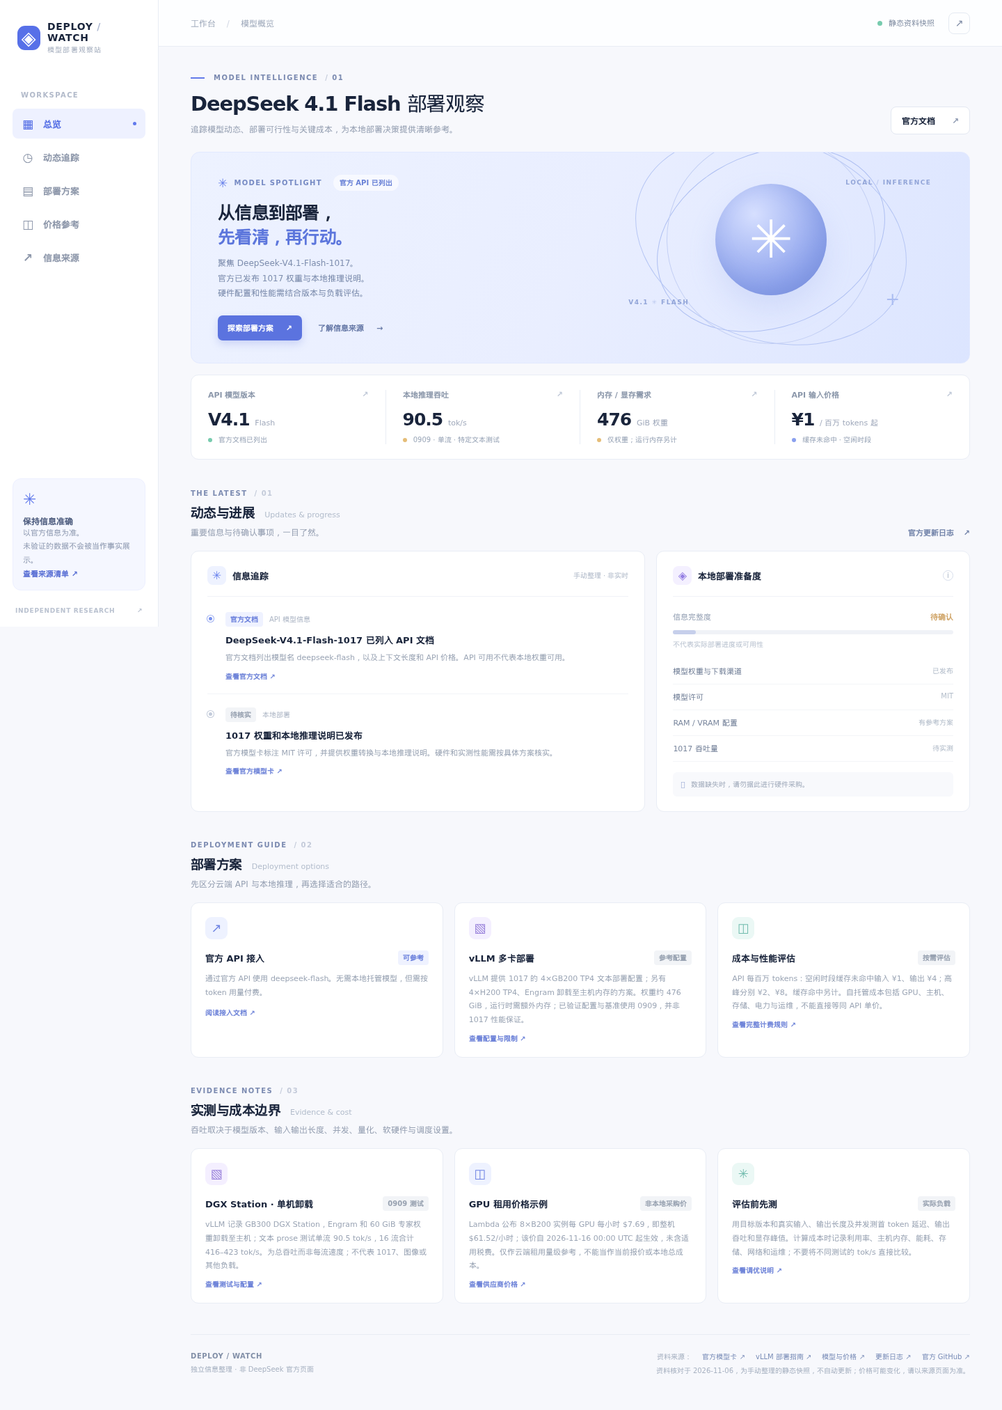
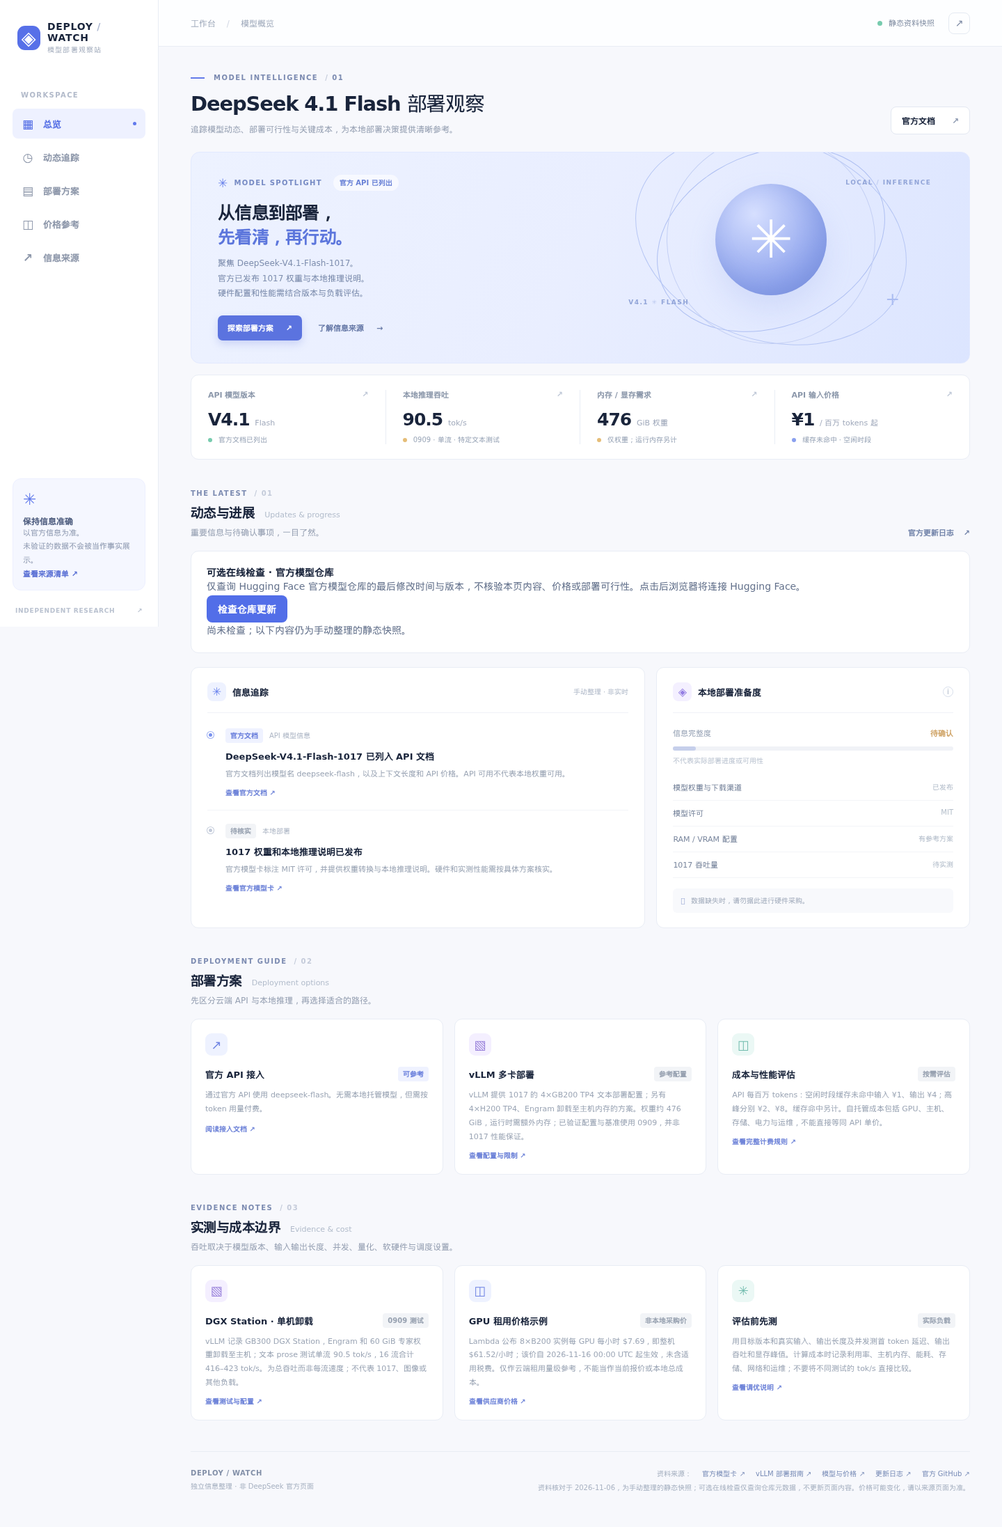
Add optional model repository update check

diff --git a/style.css b/style.css
@@ -1,3 +1,4 @@
 :root{--ink:#19243b;--muted:#8993a6;--blue:#526ee8;--line:#e9edf5;--bg:#f7f8fc}*{box-sizing:border-box}html{scroll-behavior:smooth}body{margin:0;background:var(--bg);color:var(--ink);font-family:Inter,-apple-system,BlinkMacSystemFont,"Segoe UI","Microsoft YaHei",sans-serif;font-size:14px}a{color:inherit;text-decoration:none}.sidebar{position:fixed;inset:0 auto 0 0;width:228px;background:#fff;border-right:1px solid #e9edf4;padding:30px 18px 18px;display:flex;flex-direction:column;z-index:2}.brand{display:flex;align-items:center;gap:10px;font-size:14px;font-weight:850;letter-spacing:.05em;padding:0 7px}.brand-mark{width:35px;height:35px;border-radius:11px;background:#5770e8;color:white;display:grid;place-items:center;font-size:27px}.brand-light{color:#aeb8d1}.brand small{display:block;font-size:10px;color:#a6afbf;letter-spacing:.12em;margin-top:3px;font-weight:500}.side-label{font-size:10px;letter-spacing:.14em;color:#b2baca;margin:53px 12px 14px;font-weight:700}.sidebar nav{display:grid;gap:5px}.nav-link{height:43px;display:flex;align-items:center;gap:13px;padding:0 13px;color:#8d97aa;border-radius:8px;font-size:13px;font-weight:600}.nav-link span{font-size:17px;width:18px;text-align:center}.nav-link.active,.nav-link:hover{background:#eef1ff;color:#536de5}.nav-link i{margin-left:auto;width:5px;height:5px;background:#6179ed;border-radius:50%}.side-bottom{margin-top:auto;background:#f5f7ff;border:1px solid #edf0ff;border-radius:12px;padding:16px 14px;color:#4e5d7f}.side-orb{font-size:23px;color:#617aeb;margin-bottom:10px}.side-bottom strong{font-size:12px}.side-bottom p{font-size:11px;line-height:1.8;color:#929db3}.side-bottom a{font-size:11px;color:#5b71d5;font-weight:700}.side-footer{margin:24px 4px 0;font-size:9px;letter-spacing:.08em;color:#bac2d0;font-weight:700}.side-footer span{float:right}.main{margin-left:228px}.topbar{height:67px;border-bottom:1px solid #e9edf4;background:rgba(255,255,255,.76);display:flex;align-items:center;justify-content:space-between;padding:0 46px}.breadcrumb{color:#a3adbe;font-size:12px}.breadcrumb span{margin:0 12px;color:#d2d8e4}.top-right{display:flex;align-items:center;gap:20px}.top-right>a{width:31px;height:31px;border:1px solid #e5eaf2;border-radius:8px;display:grid;place-items:center;color:#7d8aa4}.static-pill{font-size:11px;color:#8692a6}.static-pill b,.dot{display:inline-block;width:7px;height:7px;border-radius:50%;background:#77cbae;margin-right:6px}.content{max-width:1500px;margin:auto;padding:39px 46px 25px}.page-heading{display:flex;justify-content:space-between;align-items:end;margin-bottom:25px}.eyebrow,.section-kicker{font-size:10px;letter-spacing:.15em;color:#7c8bb1;font-weight:800}.eyebrow>span{display:inline-block;background:#637bea;width:20px;height:2px;vertical-align:middle;margin-right:8px}.eyebrow b,.section-kicker span{color:#c4cbda;margin-left:5px}h1,h2,h3,p{margin:0}h1{font-size:29px;letter-spacing:-.04em;margin:12px 0 10px}h1 span{font-weight:500}.page-heading p,.section-row p{color:#98a2b4;font-size:12px}.outline-button{border:1px solid #e3e8f1;background:#fff;border-radius:8px;padding:11px 15px;font-size:12px;font-weight:700}.outline-button span{margin-left:20px;color:#8f9bb2}.hero{height:252px;overflow:hidden;position:relative;border-radius:13px;background:linear-gradient(115deg,#edf2ff 0%,#e9eeff 50%,#dce5ff 100%);border:1px solid #e2e9ff}.hero-copy{padding:32px 38px;position:relative;z-index:1}.hero-kicker{font-size:10px;letter-spacing:.13em;font-weight:800;color:#778bc4;display:flex;align-items:center;gap:8px}.spark{font-size:17px;color:#657fea}.hero-chip{font-size:10px;letter-spacing:0;background:#fff9;color:#6880d6;padding:5px 9px;border-radius:20px;margin-left:8px}.hero h2{font-size:25px;line-height:1.38;letter-spacing:-.03em;margin:15px 0 10px}.hero h2 em{font-style:normal;color:#5c76dc}.hero p{font-size:12px;color:#7e8eae;line-height:1.8}.hero-links{display:flex;gap:23px;align-items:center;margin-top:20px;font-size:11px;font-weight:700;color:#6a7ca9}.hero-links a:first-child{background:#5b73df;color:white;padding:11px 14px;border-radius:7px;box-shadow:0 5px 12px #6f83de44}.hero-links span{margin-left:14px}.hero-art{position:absolute;right:4%;top:-70px;width:480px;height:390px;display:grid;place-items:center}.orbit{position:absolute;border:1px solid #aebff2;border-radius:50%;transform:rotate(-23deg)}.orbit-one{width:340px;height:250px}.orbit-two{width:400px;height:290px;transform:rotate(19deg);border-color:#b6c6f4}.orbit-three{width:300px;height:300px;border-color:#c3cff4}.core{width:160px;height:160px;border-radius:50%;background:radial-gradient(circle at 35% 27%,#d6dfff,#8fa4ed 67%,#718adf);box-shadow:inset -10px -12px 30px #7188d044,0 20px 40px #8aa1e533;display:grid;place-items:center;color:#fff;font-size:75px}.art-label{position:absolute;font-size:9px;letter-spacing:.16em;color:#92a5d8;font-weight:800}.art-label b{color:#becbf0}.art-top{top:108px;right:10px}.art-bottom{bottom:100px;left:35px}.art-cross{position:absolute;color:#aabcf1;right:55px;bottom:95px;font-size:25px}.metrics{display:grid;grid-template-columns:repeat(4,1fr);background:#fff;border:1px solid var(--line);border-radius:11px;margin-top:16px;padding:21px 0}.metrics article{padding:0 24px;border-right:1px solid var(--line)}.metrics article:last-child{border:0}.metric-top{color:#8c98ab;font-size:11px;font-weight:600;display:flex;justify-content:space-between}.metric-top span{color:#c0c9d8}.metrics strong{display:block;font-size:25px;margin:14px 0 8px;letter-spacing:-.04em}.metrics strong small{font-size:11px;letter-spacing:0;color:#a1aabc;font-weight:500}.metrics p{font-size:10px;color:#9aa6b8}.dot{width:6px;height:6px}.amber{background:#e5bd78}.blue{background:#8aa0ee}.section-row{display:flex;align-items:end;justify-content:space-between;margin:43px 0 19px}.section-row h2{font-size:19px;margin:9px 0 8px;letter-spacing:-.03em}.section-row h2 span{font-size:11px;font-weight:500;color:#b3bdcc;letter-spacing:0;margin-left:8px}.text-link{font-size:11px;font-weight:700;color:#7384aa}.text-link span{margin-left:10px}.dashboard-grid{display:grid;grid-template-columns:1.45fr 1fr;gap:16px}.panel,.option-card{background:white;border:1px solid var(--line);border-radius:11px}.panel{padding:21px 23px}.panel-header{display:flex;align-items:center;justify-content:space-between;border-bottom:1px solid #f0f2f7;padding-bottom:16px}.panel-header>div{display:flex;align-items:center;gap:9px}.panel-header strong{font-size:13px}.mini-icon{width:27px;height:27px;display:grid;place-items:center;background:#eef2ff;color:#6780ed;border-radius:8px;font-size:16px}.mini-icon.purple{color:#947ee3;background:#f4f0ff}.muted-label{color:#b2bbca;font-size:10px}.update-list{padding-top:3px}.update-item{display:grid;grid-template-columns:12px 1fr;gap:14px;padding-top:19px}.update-item+ .update-item{border-top:1px solid #f2f4f8;margin-top:18px}.timeline-dot{width:9px;height:9px;border:2px solid white;box-shadow:0 0 0 1px #9caef1;border-radius:50%;margin-top:5px}.blue-bg{background:#7790ee}.gray-bg{background:#c3cbda;box-shadow:0 0 0 1px #c3cbda}.item-meta{display:flex;align-items:center;gap:9px;font-size:10px;color:#adb6c5}.tag{font-size:10px;padding:4px 7px;border-radius:4px;font-weight:600}.blue-tag{color:#6b80dc;background:#eff2ff}.gray-tag{color:#98a2b1;background:#f2f4f7}.update-item h3{font-size:13px;margin:10px 0 8px}.update-item p,.option-card p{color:#9ba5b5;font-size:11px;line-height:1.8}.update-item a,.option-card a{display:inline-block;font-size:10px;color:#7085d9;font-weight:700;margin-top:10px}.tiny-info{border:1px solid #d7deeb;color:#aab5c7;border-radius:50%;width:15px;height:15px;display:grid;place-items:center;font-size:10px}.readiness-intro{display:flex;justify-content:space-between;margin-top:22px;font-size:11px;color:#9ba6b8}.readiness-intro strong{color:#d1a76c}.progress{height:6px;background:#f0f2f7;border-radius:5px;margin-top:12px}.progress span{display:block;width:8%;height:100%;background:#c6cfeb;border-radius:5px}.progress-caption{font-size:10px;color:#bbc4d1;margin-top:8px}.check-list{margin-top:14px}.check-list div{display:flex;justify-content:space-between;padding:11px 0;border-bottom:1px solid #f3f5f8;font-size:11px;color:#79869d}.check-list b{font-size:10px;color:#b3bdca;font-weight:500}.notice{background:#f8f9fc;border-radius:6px;padding:11px;margin-top:15px;font-size:10px;color:#a3adbd}.notice span{color:#93a4d1;margin-right:5px}.lower{margin-top:42px}.options{display:grid;grid-template-columns:repeat(3,1fr);gap:16px}.option-card{padding:20px}.option-icon{width:32px;height:32px;display:grid;place-items:center;background:#eef2ff;color:#7085e3;border-radius:9px;font-size:18px;margin-bottom:16px}.option-icon.violet{background:#f4efff;color:#9a83db}.option-icon.mint{background:#ebf8f5;color:#72bcae}.option-head{display:flex;align-items:center;justify-content:space-between;margin-bottom:10px}.option-head h3{font-size:13px}.option-card p{min-height:42px}footer{border-top:1px solid #e9edf3;margin-top:44px;padding:25px 0;display:flex;justify-content:space-between;color:#a8b2c2;font-size:10px}footer strong{letter-spacing:.06em;color:#8390a8}footer p{margin-top:7px}.footer-sources{text-align:right}.footer-sources a{margin-left:15px;color:#7b8eb8}a:focus-visible{outline:2px solid #526ee8;outline-offset:3px}@media(max-width:1000px){.sidebar{width:190px}.main{margin-left:190px}.content{padding:30px 25px}.topbar{padding:0 25px}.hero-art{right:-80px;opacity:.7}.metrics article{padding:0 14px}.dashboard-grid{grid-template-columns:1fr 1fr}}@media(max-width:700px){.sidebar{position:static;width:auto;height:auto;padding:14px 16px}.brand{font-size:12px}.brand-mark{width:30px;height:30px}.side-label,.side-bottom,.side-footer{display:none}.sidebar nav{display:flex;overflow-x:auto;margin-top:14px;gap:4px}.nav-link{white-space:nowrap;height:35px;padding:0 10px;font-size:11px}.nav-link span{font-size:14px}.nav-link i{display:none}.main{margin:0}.topbar{height:48px;padding:0 18px}.content{padding:27px 16px}.page-heading{align-items:start}.page-heading h1{font-size:23px}.page-heading p{line-height:1.7}.outline-button{white-space:nowrap;margin-left:10px}.hero{height:250px}.hero-copy{padding:25px 22px}.hero h2{font-size:22px}.hero-art{right:-200px;opacity:.35}.metrics{grid-template-columns:1fr 1fr;padding:5px 0}.metrics article{padding:15px;border-bottom:1px solid var(--line)}.metrics article:nth-child(2){border-right:0}.metrics article:nth-child(n+3){border-bottom:0}.metrics strong{font-size:21px}.dashboard-grid,.options{grid-template-columns:1fr}.section-row{margin-top:34px}.section-row h2 span{display:block;margin:6px 0 0}.option-card p{min-height:0}footer{display:block}.footer-sources{text-align:left;margin-top:20px}.footer-sources a:first-of-type{margin-left:0}}
 
 .hero{height:auto;min-height:300px}
+.source-check{padding:20px 22px;margin-bottom:20px;overflow-wrap:anywhere}.source-check p{color:#64728c;line-height:1.7}.source-check button{border:0;border-radius:8px;background:#526ee8;color:white;font:inherit;font-weight:700;padding:10px 16px;cursor:pointer}.source-check button:disabled{opacity:.6;cursor:wait}.source-check button:focus-visible{outline:3px solid #9aabff;outline-offset:3px}

diff --git a/index.html b/index.html
@@ -27,13 +27,14 @@
       <section class="hero" aria-label="模型概览"><div class="hero-copy"><div class="hero-kicker"><span class="spark">✳</span> MODEL SPOTLIGHT <span class="hero-chip">官方 API 已列出</span></div><h2>从信息到部署，<br><em>先看清，再行动。</em></h2><p>聚焦 DeepSeek-V4.1-Flash-1017。<br>官方已发布 1017 权重与本地推理说明。<br>硬件配置和性能需结合版本与负载评估。</p><div class="hero-links"><a href="#solutions">探索部署方案 <span>↗</span></a><a href="#sources">了解信息来源 <span>→</span></a></div></div><div class="hero-art" aria-hidden="true"><div class="orbit orbit-one"></div><div class="orbit orbit-two"></div><div class="orbit orbit-three"></div><div class="core"><span>✳</span></div><div class="art-label art-top">LOCAL <b> / </b> INFERENCE</div><div class="art-label art-bottom">V4.1 <b>✳</b> FLASH</div><div class="art-cross">+</div></div></section>
       <section class="metrics" aria-label="关键指标"><article><div class="metric-top">API 模型版本 <span>↗</span></div><strong>V4.1 <small>Flash</small></strong><p><b class="dot green"></b> 官方文档已列出</p></article><article><div class="metric-top">本地推理吞吐 <span>↗</span></div><strong>90.5 <small>tok/s</small></strong><p><b class="dot amber"></b> 0909 · 单流 · 特定文本测试</p></article><article><div class="metric-top">内存 / 显存需求 <span>↗</span></div><strong>476 <small>GiB 权重</small></strong><p><b class="dot amber"></b> 仅权重；运行内存另计</p></article><article><div class="metric-top">API 输入价格 <span>↗</span></div><strong>¥1 <small>/ 百万 tokens 起</small></strong><p><b class="dot blue"></b> 缓存未命中 · 空闲时段</p></article></section>
       <div class="section-row" id="updates"><div><div class="section-kicker">THE LATEST <span> / 01</span></div><h2>动态与进展 <span>Updates & progress</span></h2><p>重要信息与待确认事项，一目了然。</p></div><a class="text-link" href="https://api-docs.deepseek.com/zh-cn/updates" target="_blank" rel="noopener noreferrer">官方更新日志 <span>↗</span></a></div>
+      <div class="panel source-check"><strong>可选在线检查 · 官方模型仓库</strong><p>仅查询 Hugging Face 官方模型仓库的最后修改时间与版本，不核验本页内容、价格或部署可行性。点击后浏览器将连接 Hugging Face。</p><button type="button" id="check-updates">检查仓库更新</button><p id="check-status" role="status" aria-live="polite">尚未检查；以下内容仍为手动整理的静态快照。</p><p id="check-result" hidden></p></div>
       <div class="dashboard-grid"><section class="panel updates-panel"><div class="panel-header"><div><span class="mini-icon">✳</span><strong>信息追踪</strong></div><span class="muted-label">手动整理 · 非实时</span></div><div class="update-list"><article class="update-item"><div class="timeline-dot blue-bg"></div><div><div class="item-meta"><span class="tag blue-tag">官方文档</span><span>API 模型信息</span></div><h3>DeepSeek-V4.1-Flash-1017 已列入 API 文档</h3><p>官方文档列出模型名 deepseek-flash，以及上下文长度和 API 价格。API 可用不代表本地权重可用。</p><a href="https://api-docs.deepseek.com/zh-cn/quick_start/pricing" target="_blank" rel="noopener noreferrer">查看官方文档 ↗</a></div></article><article class="update-item"><div class="timeline-dot gray-bg"></div><div><div class="item-meta"><span class="tag gray-tag">待核实</span><span>本地部署</span></div><h3>1017 权重和本地推理说明已发布</h3><p>官方模型卡标注 MIT 许可，并提供权重转换与本地推理说明。硬件和实测性能需按具体方案核实。</p><a href="https://huggingface.co/deepseek-ai/DeepSeek-V4.1-Flash-1017" target="_blank" rel="noopener noreferrer">查看官方模型卡 ↗</a></div></article></div></section>
       <section class="panel readiness"><div class="panel-header"><div><span class="mini-icon purple">◈</span><strong>本地部署准备度</strong></div><span class="tiny-info" title="仅展示信息核实状态">i</span></div><div class="readiness-intro"><span>信息完整度</span><strong>待确认</strong></div><div class="progress"><span></span></div><p class="progress-caption">不代表实际部署进度或可用性</p><div class="check-list"><div><span>模型权重与下载渠道</span><b>已发布</b></div><div><span>模型许可</span><b>MIT</b></div><div><span>RAM / VRAM 配置</span><b>有参考方案</b></div><div><span>1017 吞吐量</span><b>待实测</b></div></div><div class="notice"><span>ⓘ</span> 数据缺失时，请勿据此进行硬件采购。</div></section></div>
       <div class="section-row lower" id="solutions"><div><div class="section-kicker">DEPLOYMENT GUIDE <span> / 02</span></div><h2>部署方案 <span>Deployment options</span></h2><p>先区分云端 API 与本地推理，再选择适合的路径。</p></div></div>
       <div class="options"><article class="option-card"><div class="option-icon">↗</div><div class="option-head"><h3>官方 API 接入</h3><span class="tag blue-tag">可参考</span></div><p>通过官方 API 使用 deepseek-flash。无需本地托管模型，但需按 token 用量付费。</p><a href="https://api-docs.deepseek.com/zh-cn/" target="_blank" rel="noopener noreferrer">阅读接入文档 ↗</a></article><article class="option-card"><div class="option-icon violet">▧</div><div class="option-head"><h3>vLLM 多卡部署</h3><span class="tag gray-tag">参考配置</span></div><p>vLLM 提供 1017 的 4×GB200 TP4 文本部署配置；另有 4×H200 TP4、Engram 卸载至主机内存的方案。权重约 476 GiB，运行时需额外内存；已验证配置与基准使用 0909，并非 1017 性能保证。</p><a href="https://recipes.vllm.ai/deepseek-ai/DeepSeek-V4.1-Flash" target="_blank" rel="noopener noreferrer">查看配置与限制 ↗</a></article><article class="option-card" id="pricing"><div class="option-icon mint">◫</div><div class="option-head"><h3>成本与性能评估</h3><span class="tag gray-tag">按需评估</span></div><p>API 每百万 tokens：空闲时段缓存未命中输入 ¥1、输出 ¥4；高峰分别 ¥2、¥8。缓存命中另计。自托管成本包括 GPU、主机、存储、电力与运维，不能直接等同 API 单价。</p><a href="https://api-docs.deepseek.com/zh-cn/quick_start/pricing" target="_blank" rel="noopener noreferrer">查看完整计费规则 ↗</a></article></div>
       <div class="section-row lower"><div><div class="section-kicker">EVIDENCE NOTES <span> / 03</span></div><h2>实测与成本边界 <span>Evidence &amp; cost</span></h2><p>吞吐取决于模型版本、输入输出长度、并发、量化、软硬件与调度设置。</p></div></div>
       <div class="options"><article class="option-card"><div class="option-icon violet">▧</div><div class="option-head"><h3>DGX Station · 单机卸载</h3><span class="tag gray-tag">0909 测试</span></div><p>vLLM 记录 GB300 DGX Station，Engram 和 60 GiB 专家权重卸载至主机；文本 prose 测试单流 90.5 tok/s，16 流合计 416–423 tok/s。为总吞吐而非每流速度；不代表 1017、图像或其他负载。</p><a href="https://recipes.vllm.ai/deepseek-ai/DeepSeek-V4.1-Flash#dgx-station-gb300-tensor-parallel" target="_blank" rel="noopener noreferrer">查看测试与配置 ↗</a></article><article class="option-card"><div class="option-icon">◫</div><div class="option-head"><h3>GPU 租用价格示例</h3><span class="tag gray-tag">非本地采购价</span></div><p>Lambda 公布 8×B200 实例每 GPU 每小时 $7.69，即整机 $61.52/小时；该价自 2026-11-16 00:00 UTC 起生效，未含适用税费。仅作云端租用量级参考，不能当作当前报价或本地总成本。</p><a href="https://lambda.com/pricing" target="_blank" rel="noopener noreferrer">查看供应商价格 ↗</a></article><article class="option-card"><div class="option-icon mint">✳</div><div class="option-head"><h3>评估前先测</h3><span class="tag gray-tag">实际负载</span></div><p>用目标版本和真实输入、输出长度及并发测首 token 延迟、输出吞吐和显存峰值。计算成本时记录利用率、主机内存、能耗、存储、网络和运维；不要将不同测试的 tok/s 直接比较。</p><a href="https://recipes.vllm.ai/deepseek-ai/DeepSeek-V4.1-Flash#performance-tuning" target="_blank" rel="noopener noreferrer">查看调优说明 ↗</a></article></div>
-      <footer id="sources"><div><strong>DEPLOY / WATCH</strong><p>独立信息整理 · 非 DeepSeek 官方页面</p></div><div class="footer-sources">资料来源：<a href="https://huggingface.co/deepseek-ai/DeepSeek-V4.1-Flash-1017" target="_blank" rel="noopener noreferrer">官方模型卡 ↗</a><a href="https://recipes.vllm.ai/deepseek-ai/DeepSeek-V4.1-Flash" target="_blank" rel="noopener noreferrer">vLLM 部署指南 ↗</a><a href="https://api-docs.deepseek.com/zh-cn/quick_start/pricing" target="_blank" rel="noopener noreferrer">模型与价格 ↗</a><a href="https://api-docs.deepseek.com/zh-cn/updates" target="_blank" rel="noopener noreferrer">更新日志 ↗</a><a href="https://github.com/deepseek-ai" target="_blank" rel="noopener noreferrer">官方 GitHub ↗</a><p>资料核对于 2026-11-06，为手动整理的静态快照，不自动更新；价格可能变化，请以来源页面为准。</p></div></footer>
+      <footer id="sources"><div><strong>DEPLOY / WATCH</strong><p>独立信息整理 · 非 DeepSeek 官方页面</p></div><div class="footer-sources">资料来源：<a href="https://huggingface.co/deepseek-ai/DeepSeek-V4.1-Flash-1017" target="_blank" rel="noopener noreferrer">官方模型卡 ↗</a><a href="https://recipes.vllm.ai/deepseek-ai/DeepSeek-V4.1-Flash" target="_blank" rel="noopener noreferrer">vLLM 部署指南 ↗</a><a href="https://api-docs.deepseek.com/zh-cn/quick_start/pricing" target="_blank" rel="noopener noreferrer">模型与价格 ↗</a><a href="https://api-docs.deepseek.com/zh-cn/updates" target="_blank" rel="noopener noreferrer">更新日志 ↗</a><a href="https://github.com/deepseek-ai" target="_blank" rel="noopener noreferrer">官方 GitHub ↗</a><p>资料核对于 2026-11-06，为手动整理的静态快照；可选在线检查仅查询仓库元数据，不更新页面内容。价格可能变化，请以来源页面为准。</p></div></footer>
     </div>
   </main><script src="script.js"></script>
 </body></html>

diff --git a/script.js b/script.js
@@ -3,3 +3,38 @@ links.forEach(link => link.addEventListener('click', () => {
   links.forEach(item => item.classList.remove('active'));
   link.classList.add('active');
 }));
+
+// This opt-in check reports repository metadata only; it never rewrites the snapshot.
+const checkButton = document.getElementById('check-updates');
+const checkStatus = document.getElementById('check-status');
+const checkResult = document.getElementById('check-result');
+const modelId = 'deepseek-ai/DeepSeek-V4.1-Flash-1017';
+
+checkButton.addEventListener('click', async () => {
+  checkButton.disabled = true;
+  checkStatus.textContent = '正在查询官方模型仓库元数据…';
+  const controller = new AbortController();
+  const timer = setTimeout(() => controller.abort(), 10000);
+  try {
+    const response = await fetch(`https://huggingface.co/api/models/${modelId}`, {
+      signal: controller.signal,
+      credentials: 'omit',
+      cache: 'no-store'
+    });
+    if (!response.ok) throw new Error('Request failed');
+    const data = await response.json();
+    if (data.id !== modelId || !/^[a-f0-9]{40}$/.test(data.sha) ||
+        typeof data.lastModified !== 'string' || !/^\d{4}-\d{2}-\d{2}T\d{2}:\d{2}:\d{2}(?:\.\d+)?Z$/.test(data.lastModified) ||
+        !Number.isFinite(Date.parse(data.lastModified))) throw new Error('Invalid metadata');
+    const modified = new Date(data.lastModified).toISOString().replace('T', ' ').replace('.000Z', ' UTC');
+    const checked = new Date().toISOString().replace('T', ' ').replace(/\.\d{3}Z$/, ' UTC');
+    checkResult.textContent = `仓库最后修改：${modified}；版本：${data.sha}。检查时间：${checked}。仓库修改不代表模型、价格或本页内容发生变化，请打开官方模型卡核实。`;
+    checkResult.hidden = false;
+    checkStatus.textContent = '仓库元数据查询成功；静态快照未改变。';
+  } catch {
+    checkStatus.textContent = '查询失败或超时（可能是网络、跨域限制或服务限流）；静态快照保持不变。可稍后重试或直接查看官方模型卡。';
+  } finally {
+    clearTimeout(timer);
+    checkButton.disabled = false;
+  }
+});

diff --git a/README.md b/README.md
@@ -6,4 +6,4 @@ Sandbox repository for the dsh-superagent prototype.
 
 直接用浏览器打开 `index.html`，或在此目录运行 `python3 -m http.server 8000` 后访问 `http://localhost:8000/`。
 
-页面是人工整理的静态资料快照，并非实时新闻服务。价格、硬件配置及性能会随来源和部署条件变化，请在采购或部署前核对页面链接的原始资料。
+页面是人工整理的静态资料快照，并非实时新闻服务。可点击“检查仓库更新”查询官方模型仓库的最后修改时间和版本；该操作需要联网，不会更新或核验快照内容。价格、硬件配置及性能会随来源和部署条件变化，请在采购或部署前核对页面链接的原始资料。
